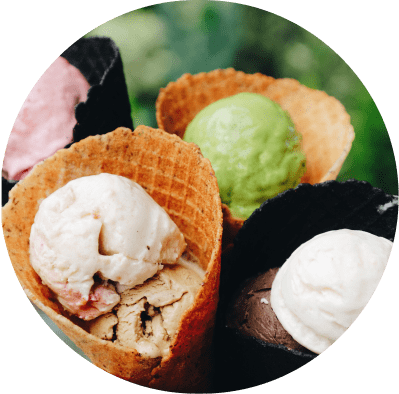
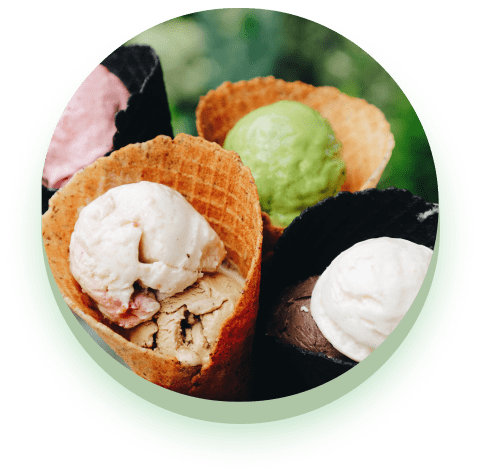
done version

diff --git a/src/sass/_products.scss b/src/sass/_products.scss
@@ -11,9 +11,9 @@
     padding: 0 32px;
     max-width: 768px;
     @media (min-device-pixel-ratio: 2),
-    (min-resolution: 192dpi),
-    (min-resolution: 2dppx){
-        background-image: url(../photo/products/background/background-image-tablet-2x-min.png);
+      (min-resolution: 192dpi),
+      (min-resolution: 2dppx) {
+      background-image: url(../photo/products/background/background-image-tablet-2x-min.png);
     }
   }
 
@@ -24,9 +24,9 @@
     padding: 0 12px;
     max-width: 1200px;
     @media (min-device-pixel-ratio: 2),
-    (min-resolution: 192dpi),
-    (min-resolution: 2dppx){
-        background-image: url(../photo/products/background/background-image-desctop-2x-min.png);
+      (min-resolution: 192dpi),
+      (min-resolution: 2dppx) {
+      background-image: url(../photo/products/background/background-image-desctop-2x-min.png);
     }
   }
 }
@@ -57,7 +57,10 @@
 
   @media screen and(min-width:1200px) {
     transform: none;
-    left: 550px;
+    left: 480px;
+    font-weight: 800;
+    font-size: 30px;
+    line-height: 1.23;
   }
 }
 
@@ -82,7 +85,10 @@
 
   @media screen and(min-width:1200px) {
     transform: none;
-    left: 485px;
+    left: 435px;
+    font-weight: 400;
+    font-size: 36px;
+    line-height: 45px;
   }
 }
 
@@ -108,14 +114,15 @@
   @media screen and(min-width:400px) {
     padding: 280px 50px 0px 50px;
     @media (min-device-pixel-ratio: 2),
-    (min-resolution: 192dpi),
-    (min-resolution: 2dppx){background-image: url(../photo/products/background/background-image-1-mobile-2x-min.png);}
+      (min-resolution: 192dpi),
+      (min-resolution: 2dppx) {
+      background-image: url(../photo/products/background/background-image-1-mobile-2x-min.png);
+    }
   }
 
   @media screen and(min-width:768px) {
     padding: 343px 0 64px;
     background-image: none;
-    
   }
 
   @media screen and(min-width:1200px) {
@@ -133,8 +140,10 @@
   @media screen and(min-width:400px) {
     padding: 164px 50px 0px 50px;
     @media (min-device-pixel-ratio: 2),
-    (min-resolution: 192dpi),
-    (min-resolution: 2dppx){background-image: url(../photo/products/background/background-image-2-mobile-2x-min.png);}
+      (min-resolution: 192dpi),
+      (min-resolution: 2dppx) {
+      background-image: url(../photo/products/background/background-image-2-mobile-2x-min.png);
+    }
   }
 
   @media screen and(min-width:768px) {
@@ -157,8 +166,10 @@
   @media screen and(min-width:400px) {
     padding: 164px 50px 0px 50px;
     @media (min-device-pixel-ratio: 2),
-    (min-resolution: 192dpi),
-    (min-resolution: 2dppx){background-image: url(../photo/products/background/background-image-3-mobile-2x-min.png);}
+      (min-resolution: 192dpi),
+      (min-resolution: 2dppx) {
+      background-image: url(../photo/products/background/background-image-3-mobile-2x-min.png);
+    }
   }
 
   @media screen and(min-width:768px) {
@@ -187,26 +198,11 @@
     position: absolute;
     top: -100px;
     border-radius: 50%;
-    background: linear-gradient(
-        0deg,
-        rgba(156, 190, 143, 0.7),
-        rgba(156, 190, 143, 0.7)
-      ),
-      #d9d9d9;
-    box-shadow: 0px 11.34219px 20.0332px rgba(10, 136, 23, 0.25);
 
     @media screen and(min-width:1200px) {
       content: url(../photo/products/ice-cream-desctop-min.png);
-      top: -150px;
-      background: linear-gradient(
-          0deg,
-          rgba(156, 190, 143, 0.7),
-          rgba(156, 190, 143, 0.7)
-        ),
-        #d9d9d9;
-      box-shadow: 0px 8px 30px rgba(10, 136, 23, 0.25);
+      top: -186px;
     }
-    
   }
 
   @media screen and(min-width:768px) {
@@ -237,24 +233,10 @@
     width: auto;
     height: auto;
     border-radius: 50%;
-    background: linear-gradient(
-        0deg,
-        rgba(248, 210, 78, 0.7),
-        rgba(248, 210, 78, 0.7)
-      ),
-      #d9d9d9;
-    box-shadow: 0px 11.40397px 20.2649px rgba(153, 114, 23, 0.25);
 
     @media screen and(min-width:1200px) {
       content: url(../photo/products/ice-coffee-desctop-min.png);
-      top: -150px;
-      background: linear-gradient(
-          0deg,
-          rgba(248, 210, 78, 0.7),
-          rgba(248, 210, 78, 0.7)
-        ),
-        #d9d9d9;
-      box-shadow: 0px 8px 30px rgba(153, 114, 23, 0.25);
+      top: -186px;
     }
   }
 
@@ -283,30 +265,17 @@
   &::before {
     content: url(../photo/products/milkshake-mobile-min.png);
     position: absolute;
-    width: 100%;
+    width: 200px;
+    height: 208px;
     top: -100px;
     display: block;
     width: auto;
     height: auto;
     border-radius: 50%;
-    background: linear-gradient(
-        0deg,
-        rgba(213, 117, 63, 0.7),
-        rgba(213, 117, 63, 0.7)
-      ),
-      #d9d9d9;
-    box-shadow: 0px 11.41333px 20.3px rgba(0, 0, 0, 0.25);
 
     @media screen and(min-width:1200px) {
       content: url(../photo/products/milkshake-desctop-min.png);
-      top: -150px;
-      background: linear-gradient(
-          0deg,
-          rgba(213, 117, 63, 0.7),
-          rgba(213, 117, 63, 0.7)
-        ),
-        #d9d9d9;
-      box-shadow: 0px 8px 30px rgba(0, 0, 0, 0.25);
+      top: -186px;
     }
   }
 
@@ -354,6 +323,15 @@
   letter-spacing: 0.04em;
   color: var(--black-text-color);
   padding: 0px 40px;
+
+  @media screen and(min-width:768px) {
+    padding: 0px 26px;
+  }
+
+  @media screen and(min-width:1200px) {
+    padding: 0;
+    width: 220px;
+  }
 }
 
 .products__modal {
